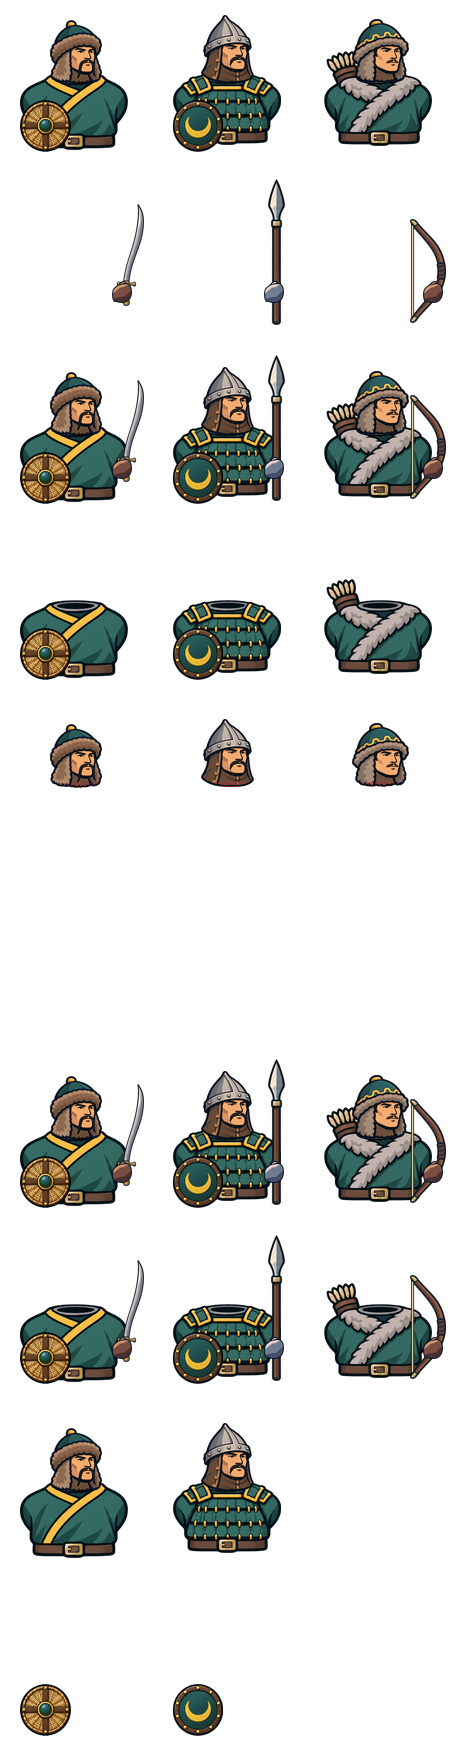
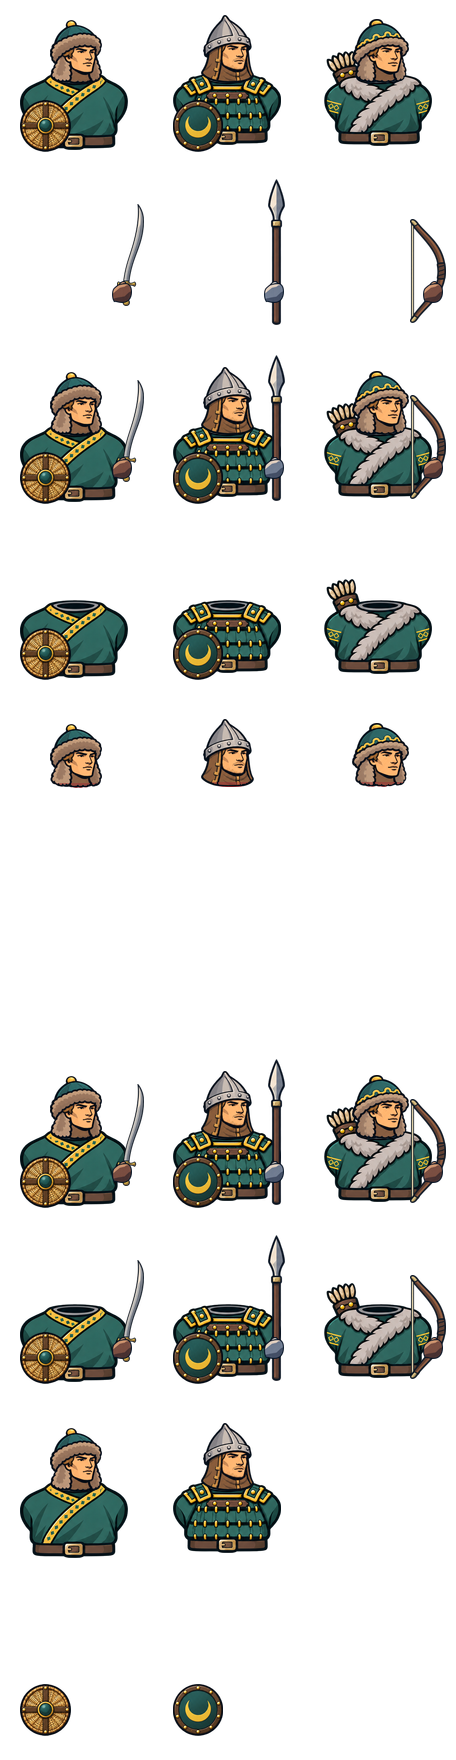
Каганат: варианты бойцов — другие лица, детали брони и масти коней (#290) (#301)
Claude-Session: https://claude.ai/code/session_0112NLBndME8PiXpuX2g7p2P

diff --git a/shareness/lessons.md b/shareness/lessons.md
@@ -203,3 +203,4 @@
 - 2026-11-20 — **Варианты бойцов (Галлия).** Чтобы отряд не был клонами, страницы 1–3 атласа собираются из своих листов `<фракция>-torsos-vN.png` / `-heads-vN.png` (те же клетки, броня и цвета, другие люди и детали) и с другой естественной мастью коня; включается флагом `variants: true` у фракции в `render_heraldic_faction.cjs`, без флага страницы остаются как были (проверено побайтно). Грабли: у варианта тыльная сторона воротника может выйти серой (сумма RGB ≈200) и слиться с тёмным вырезом — голова садится внутрь туловища; для вариантов вырез ищется по порогу 150. Павший конь берёт вариант всадника (`mount_corpse(..., variant)`), иначе вороной падает гнедым.
 - 2026-11-20 — **Доминион в общем сборщике (#294).** Отдельные `render_dominion_heraldic.cjs`/`render_dominion_cavalry.cjs` удалены: Доминион — `FACTIONS.dominion` в `render_heraldic_faction.cjs` (ключ сборки `dominion`, в игре фракция `dom`). Его старый сустав сохранён опциями, без которых другие фракции собираются как прежде: `joint` (вычистка выреза, порог тёмного 150 у пехоты и 215 у всадников, шея по низу головы, `tuck: 4`, передняя половина воротника, «плоский» headless; у всадников край выреза — первый пиксель с суммой RGB > 450), свои листы у бойца (`parts`, `cell` — всадники из `riders-*.png`), своя форма щита `{round|kite}`, `geometry` в двух файлах без хвата пехоты (`footGrip: false`, хват берётся из `GRIPS`), 11 строк конницы (`mountRow: false`) и общая полоса коней `horseStrip`. Итог побайтно совпал со старыми атласами; все остальные фракции после правки тоже побайтно те же. Проверка любого переноса: копия всех `*_heraldic*.png` и `*_heraldic*geometry.gd` до правки, пересборка каждой фракции и `cmp`.
 - 2026-11-20 — **Варианты: гребень через границу клетки.** Сгенерированный лист может залезть плюмажем или гребнем в соседнюю клетку (у Пакта v3 — две строки пикселей перо гусара в клетку лучника). Сборщик берёт рамку по непрозрачным пикселям клетки, и голова соседа уменьшается и повисает над воротником. Перед сборкой проверяй, что у краёв клеток нет непрозрачных пикселей, и стирай залёт. Генерация вариантов удобна файлом: промпт кладётся в `.txt` рядом с исходным листом, Codex получает оба вложения и короткое «Do exactly what the attached X.txt says».
+- 2026-11-20 — **Варианты и перекраска под знамя.** Сукно фракции перекрашивается в цвет знамени игрока по диапазону оттенка (`hue` в `dominion_heraldic_art.gd`). «Выцветший» вариант может уйти из диапазона, и под знаменем игрока половина сукна останется старого цвета. Проверяй долю пикселей сукна в диапазоне (у основного листа ~0.99); при провале сдвигай оттенок листа в диапазон, как сделано для `khan-torsos-v3.png`.

diff --git a/godot/tools/battle/heraldic_source/khan-prompts.md b/godot/tools/battle/heraldic_source/khan-prompts.md
@@ -1,0 +1,23 @@
+# khan — промпты частей
+
+Основные листы `khan-torsos.png`, `khan-heads.png`, `khan-shields.png` сделаны генератором картинок OpenAI (ChatGPT)
+по шаблонам `shareness/skills/unit-parts/PROMPTS.md`.
+
+## Варианты
+
+Листы `khan-torsos-v1…v3.png` и `khan-heads-v1…v3.png` — правка `khan-torsos.png` / `khan-heads.png` (вложение) тем же
+генератором (Codex получал промпт файлом `.txt` вместе с исходным листом), по образцу вариантов Галлии (`kin-prompts.md`).
+Каждый боец остаётся в своей клетке с тем же типом доспеха, цветами, силуэтом, вырезом ворота и колчаном; меняются
+детали. Туловища: v1 — поношенное сукно с тёмными заплатами, отделка тонкими полосами вместо сплошных, простые железные
+пряжки, завязанный кушак; v2 — кожаные ремни и небольшие круглые наплечники, кайма с шахматным или геометрическим узором,
+заклёпки, поясные сумки; v3 — выцветшее сукно, контрастная отделка ворота, перевязь через грудь у суконных бойцов,
+круглые металлические бляхи, видны ряды заклёпок на пластинах и кольчуге. Во все три добавлено «The rim at the back of
+the neck opening keeps the colour it has in the attached sheet, NOT grey». Головы (те же шапки и шлемы, другие люди):
+v1 — пожилые ветераны с проседью в бородах, морщинистые обветренные лица; v2 — молодые, бритые или с лёгкой щетиной,
+волосы светлее; v3 — широкие лица, тёмные волосы, густые усы или полные бороды, кое-где шрам на щеке. Закрывающие лицо
+уборы меняют одну мелочь: v1 — другой цвет намёта или обмотки, v2 — тонкая полосатая лента, v3 — навершие на макушке.
+Общая часть промпта: шея короткая, срез прямо под подбородком на той же высоте, без голой кожи; сетка 3×3, прозрачный
+фон, без текста; вид три четверти вправо от зрителя.
+
+`khan-torsos-v3.png` вышел с выцветшим, зеленее основного сукном: под знамя игрока перекрашивалась только половина
+бирюзы. Оттенок зелёных пикселей листа сдвинут в диапазон перекраски каганата (hue 0.43–0.52, насыщенность ≥ 0.38).
